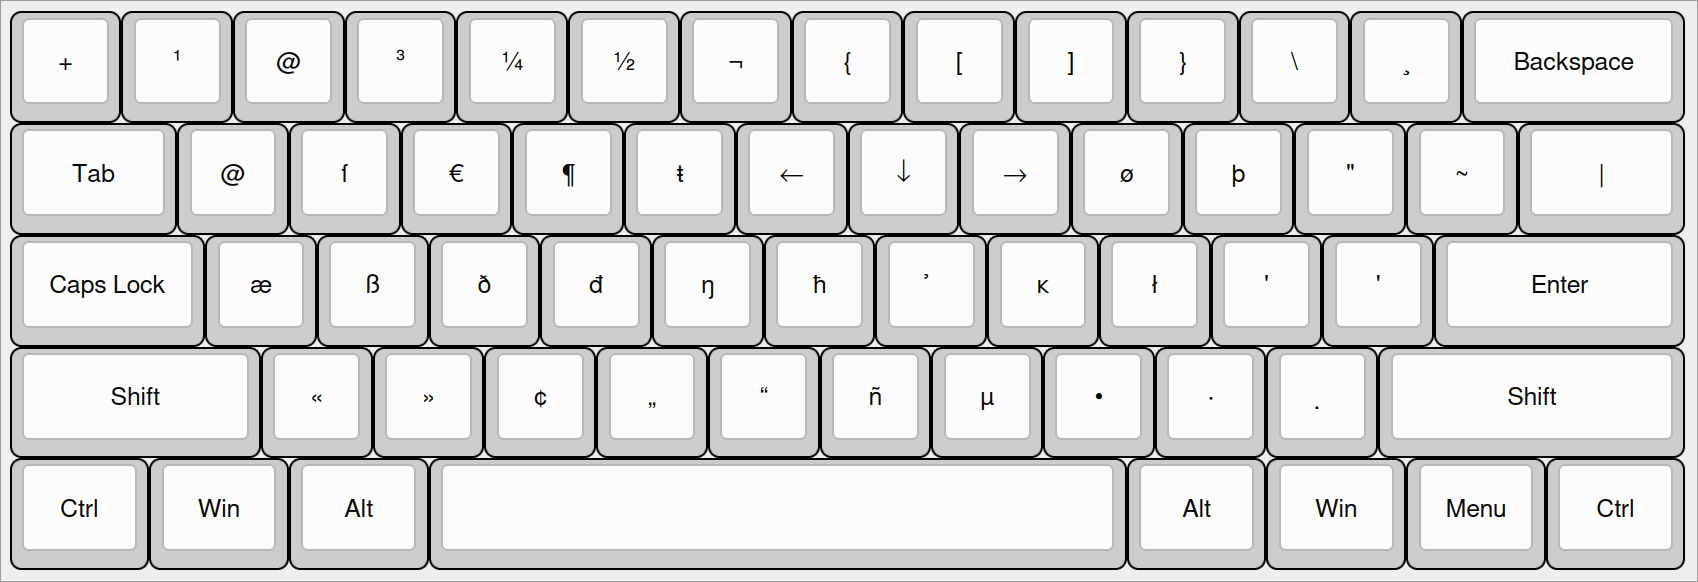
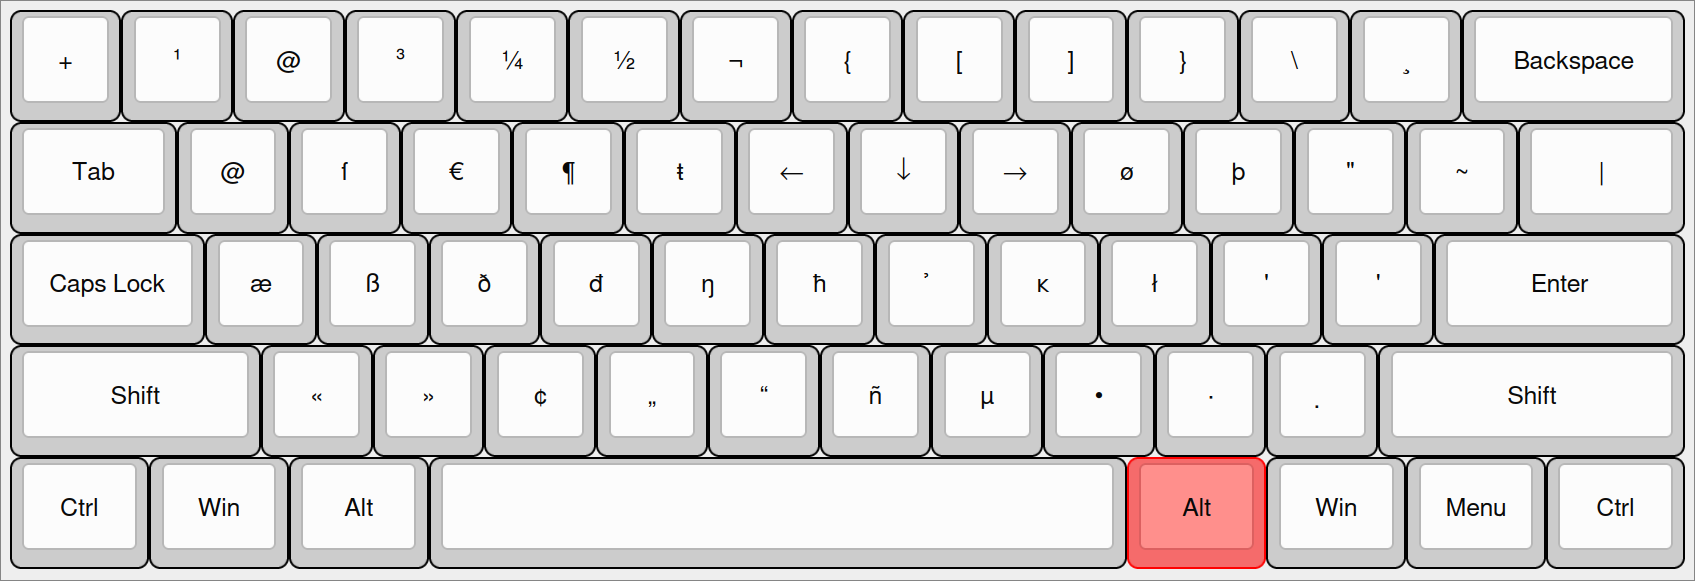
Add red mark to the mod keys

diff --git a/README.md b/README.md
@@ -33,7 +33,7 @@ I used [this](http://www.keyboard-layout-editor.com) website with the 60% preset
 [{a:7},"~","1","2","3","4","5","6","7","8","9","0","_","+",{w:2},"Backspace"],
 [{w:1.5},"Tab","Q","W","E","R","T","Y","U","I","O","P","{","}",{w:1.5},"|"],
 [{w:1.75},"Caps Lock","A","S","D","F","G","H","J","K","L",";","'",{w:2.25},"Enter"],
-[{w:2.25},"Shift","Z","X","C","V","B","N","M","<",">","?",{w:2.75},"Shift"],
+[{c:"#f56b6b",w:2.25},"Shift",{c:"#cccccc"},"Z","X","C","V","B","N","M","<",">","?",{w:2.75},"Shift"],
 [{w:1.25},"Ctrl",{w:1.25},"Win",{w:1.25},"Alt",{w:6.25},"",{w:1.25},"Alt",{w:1.25},"Win",{w:1.25},"Menu",{w:1.25},"Ctrl"]
   ```
 </details>
@@ -51,7 +51,7 @@ I used [this](http://www.keyboard-layout-editor.com) website with the 60% preset
 [{w:1.5},"Tab","@","ſ","€","¶","ŧ","←","↓","→","ø","þ","\"","~",{w:1.5},"|"],
 [{w:1.75},"Caps Lock","æ","ß","ð","đ","ŋ","ħ","̉̉","ĸ","ł","'","'",{w:2.25},"Enter"],
 [{w:2.25},"Shift","«","»","¢","„","“","ñ","µ","•","·","̣",{w:2.75},"Shift"],
-[{w:1.25},"Ctrl",{w:1.25},"Win",{w:1.25},"Alt",{w:6.25},"",{w:1.25},"Alt",{w:1.25},"Win",{w:1.25},"Menu",{w:1.25},"Ctrl"]
+[{w:1.25},"Ctrl",{w:1.25},"Win",{w:1.25},"Alt",{w:6.25},"",{c:"#f56b6b",w:1.25},"Alt",{c:"#cccccc",w:1.25},"Win",{w:1.25},"Menu",{w:1.25},"Ctrl"]
 ```
 </details>
 
